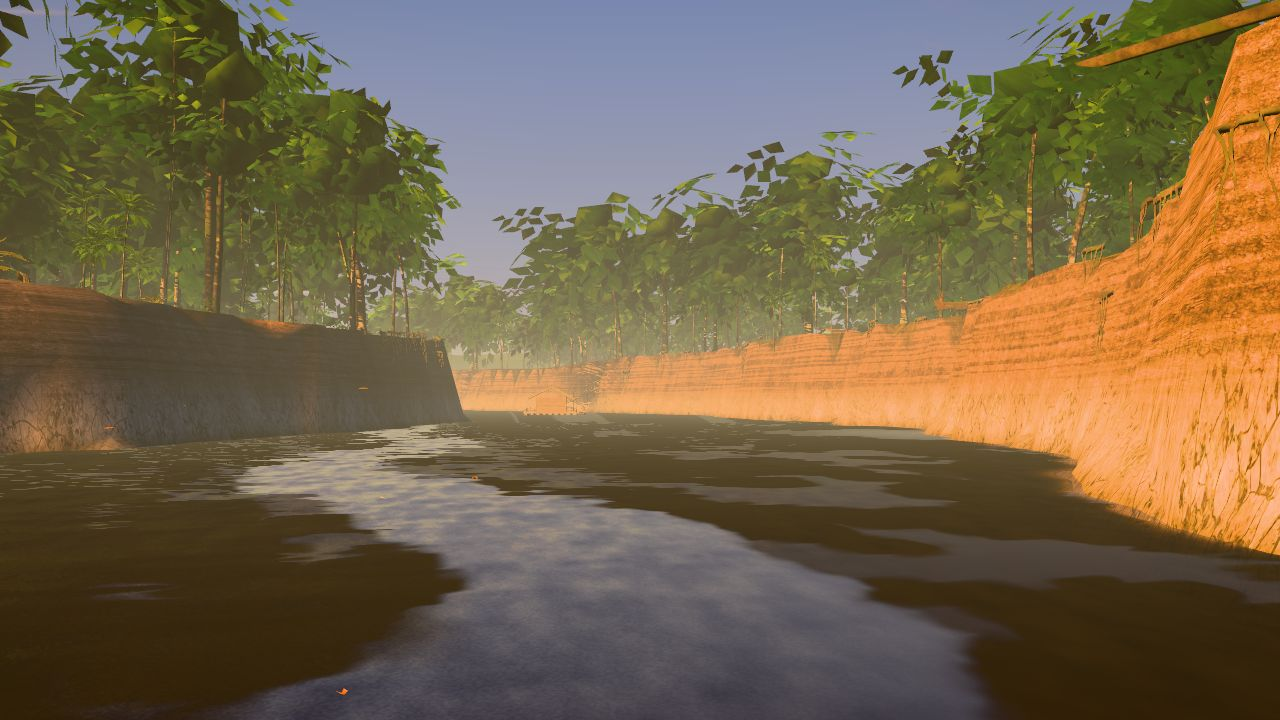
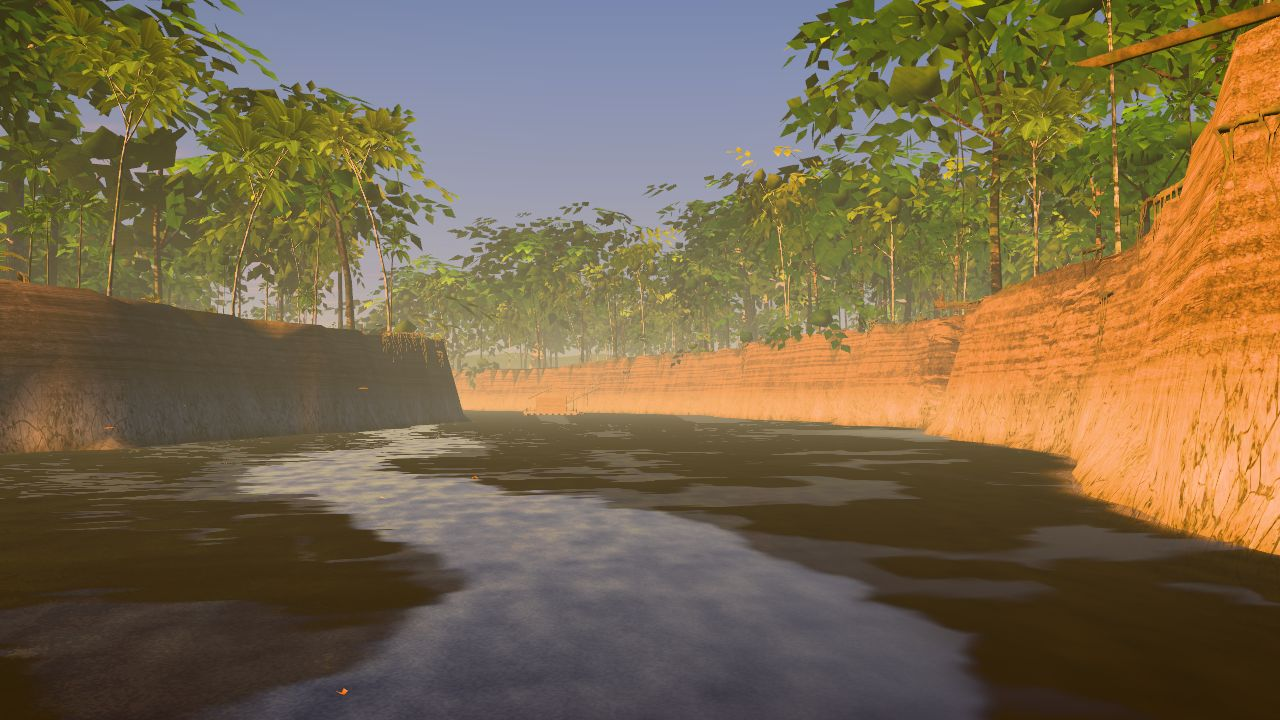
Fix regressions: palms off the trail, channel mouth kept open, scene 1 start
Claude-Session: https://claude.ai/code/session_01GrVJbQmiYrY8pANU95x3Vf

diff --git a/src/world/forestCook.ts b/src/world/forestCook.ts
@@ -186,6 +186,7 @@ export function cookForest(hf: Heightfield, density: number, progress: (f: numbe
     if (fbm2(gx0 / 60, gz0 / 60, S + 71, 2) < 0.47) continue
     const h = heightFormula(x, z)
     if (h < 7.2 || kind.lake > 0.02 || kind.channel > 0.04 || kind.sand > 0.2 || kind.dry > 0.3 || kind.trail > 0.25) continue
+    if (Math.min(distPoly(x, z, TRAIL), distPoly(x, z, YARDPATH)) < 4.5) continue
     if (Math.hypot(x - COMMUNITY.x, z - COMMUNITY.z) < 30 || Math.hypot(x - PLACES.giantTrunk.x, z - PLACES.giantTrunk.z) < 9) continue
     const ph = rp.range(7, 19), seed = rp.range(0.7, 0.95)
     R.trunk.push(x, h - 0.3, z, rp.range(0.1, 0.17), rp() * 6.283, seed, ph, rp.range(0.02, 0.24))

diff --git a/src/world/terrain.ts b/src/world/terrain.ts
@@ -73,7 +73,7 @@ export function heightFormula(x: number, z: number): number {
   const wb = mix(12.5, 6.5, ss(0.2, 1, s)) + 2.5 * (noise2(s * 26, 1, S + 2) - 0.5)
   const run = mix(10.5, 8, s) + 3 * (noise2(x / 18, z / 18, S + 44) - 0.5)
   const slump = (fbm2(x / 11, z / 11, S + 61, 3) - 0.5) * 9 + (noise2(x / 3.1, z / 3.1, S + 62) - 0.5) * 2.0
-  const p = ss(wb, wb + run, dc + slump)
+  const p = ss(wb, wb + run, dc + slump * ss(0.13, 0.22, s))
   // banks slump in steps: terraces left by the falling river
   // a gentle silt foot, then a steep cut face, then the lip; slumped in steps left by the falling river
   const face = 0.3 * ss(0, 0.62, p) + 0.7 * ss(0.6, 0.9, p)

diff --git a/src/game/scenesA.ts b/src/game/scenesA.ts
@@ -86,7 +86,7 @@ function* s1(S: Story): Step {
   yield* S.wait(S.bot ? 0.1 : 2.2)
   // he slides his board in and follows: a minute too far
   S.g.cast.onBoard = true
-  S.placeBoy(-70, 247, 1.4, 'canoe'); S.p.frozen = false
+  S.placeBoy(-56, 252, 0.3, 'canoe'); S.p.frozen = false
   S.setTime(0.17)
   S.hint('Paddle after the canoe: W to paddle, A and D to turn')
   while (S.p.z > 156) { if (S.bot) S.botSteer(chan(Math.max(0.16, 0.2 + (215 - S.p.z) / 690 + 0.03)).x, chan(0.2 + (215 - S.p.z) / 690 + 0.03).z); const dt = yield; S.g.cast.boyAnim = input.film ? 'film' : null; ui.set({ filmGlow: input.film }); void dt }
